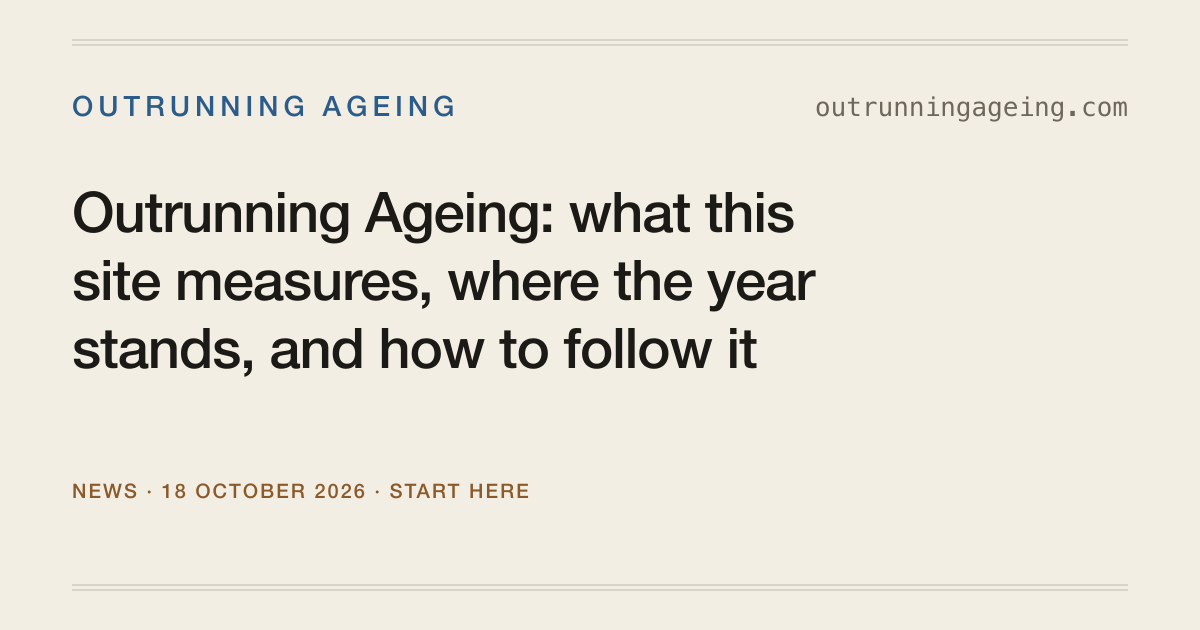
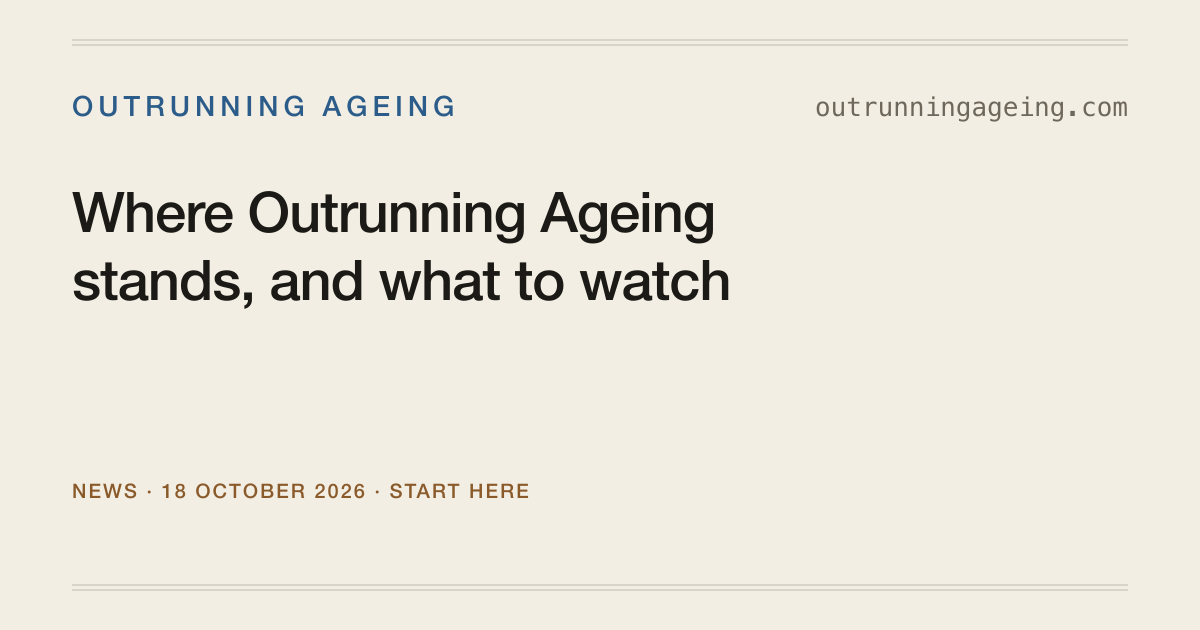
2026-10-18: the drafted opening post takes the stand-in's place as the news section's "Start here" (the openers session's text of 2026-10-18, with a link added in every paragraph that states a figure so the check passes, and the feed sentence brought up to date now that the feed exists); the check a

Changed region(s): [[0.0617, 0.4222, 0.6783, 0.6032], [0.0617, 0.3016, 0.6783, 0.3921]]

diff --git a/scripts/check_news.py b/scripts/check_news.py
@@ -12,7 +12,7 @@ A post is one Markdown file, YYYY-MM-DD-slug.md, with a frontmatter block. The c
 post that: has a file name not of that form, or a frontmatter date that differs from it; carries
 a kind outside the seven; names no record, or one that does not exist (the opener, kind
 "start-here", is the one post that need not name a record); cites no source with an https
-address; states a figure (any digit) in a paragraph that carries no link to a source or a record
+address; states a figure (any digit) in a paragraph that carries no link (a Markdown link or a written-out https address) to a source or a record
 (a table is covered by the record links the page draws under the post; the frontmatter is not
 prose); or names a record that shows no dated change within fourteen days of the post's date
 (a revision, the rung reached, or a reading item resolved or moved), so a post cannot announce
@@ -159,7 +159,7 @@ def check(posts_dir: Path, records: dict) -> tuple[list[str], int]:
                 if rid in by_id and not record_changed_near(by_id[rid], when, readings):
                     problems.append(f"{name}: {rid} shows no dated change within {WINDOW_DAYS} days of {when}; a post cannot announce what the record does not show")
         for i, para in enumerate(paragraphs(body), 1):
-            if re.search(r"\d", para) and "](" not in para:
+            if re.search(r"\d", para) and "](" not in para and "https://" not in para:
                 problems.append(f"{name}: paragraph {i} states a figure with no link to a source or a record: {para[:70]!r}")
     if openers > 1:
         problems.append(f"{posts_dir}: {openers} posts of kind start-here; there is one per site")

diff --git a/site/src/content/news/2026-10-18-start-here.md b/site/src/content/news/2026-10-18-start-here.md
@@ -1,39 +1,87 @@
 ---
-title: "Outrunning Ageing: what this site measures, where the year stands, and how to follow it"
+title: "Where Outrunning Ageing stands, and what to watch"
 date: 2026-10-18
 kind: start-here
-summary: The idea behind the project, how the year is computed from forty-four treatments, which numbers to watch, the most interesting news so far, and what would move the year. Read this once; the posts below are the changes as they happen.
-stand_in: true
+summary: What the site asks and how the year is worked out, where the numbers stand as of 18 October 2026, how to follow them week by week, the most interesting news so far, and what to watch for.
 sources:
+  - label: The headline file, the numbers as they stand
+    url: https://outrunningageing.com/data/headline.json
   - label: The method
     url: https://outrunningageing.com/method/
-  - label: The headline file
-    url: https://outrunningageing.com/data/headline.json
 ---
 
-## The idea
+Outrunning Ageing asks one question: when do we start outrunning ageing? Every year you live, medicine gets a little better, but for a person in middle age it does not yet get better fast enough, so the years you can expect to have left still fall by about a year every year. The site asks when, if ever, that stops being true, so that someone who keeps up with the best available care finds their remaining years holding steady or rising.
 
-Ageing is not one thing. The site breaks it into eight branches, each a kind of damage that repair would have to address, and under them forty-four specific treatments and measuring tools ([the tree](/branches/)). Each treatment carries a plain test of what would count, a public record of how far it has got on a five-rung ladder from idea to wide use, and a range of years for when it reaches the clinic, with the reasoning beside it. The tree is played out two hundred thousand times, and the middle of all those runs is the year at the top of the home page ([the method](/method/)).
+The question usually gets filed under science fiction or under marketing. I wanted it broken into pieces anyone can argue about, with a year at the top that is computed from them and moves in public when a new result moves it. How and why I built it is in [the essay that introduced the project](https://sentient-horizons.com/essays/outrunning-ageing/).
+
+This is the start of the site's news section. When a reading or a ruling moves a treatment up a rung, changes the year or settles a promise in the claims log, I will write it up here beside the record it explains. A quiet week gets no post.
 
 ## Where the numbers stand
 
-| what | on 18 October 2026 | what moves it |
-|---|---|---|
-| The middle year | 2058 | a treatment reaching its clinic rung on a required branch; an estimate revised on a record |
-| Nine runs in ten land between | 2050 and 2068 | the spread of the ranges on the slowest branches |
-| The chance before 2050 | 4.3 per cent | the same |
-| Treatments in clinical use | 6 of 44 | a named clinical setting publishing its practice, or a regulator's approval |
+As of 18 October 2026, the middle estimate of the year medicine starts adding more than a year of healthy life for every year that passes is 2058, from [two hundred thousand runs of the tree](/data/headline.json). Nine runs in ten land between 2050 and 2069. The chance it comes before 2050 is 4.3 percent, and in no run does it fail to arrive this century.
 
-The numbers above are the record's as of this post's date; the [home page](/) carries them as they stand today.
+The year is worked out from 45 treatments and measuring tools on [eight branches](/branches/), seven for kinds of damage that repair has to deal with and one for measuring ageing. A branch counts as handled in the year its second treatment reaches patients, and the year at the top cannot come until every branch is handled, plus some years for the treatments to reach ordinary people. The middle estimate for each branch:
+
+- broken proteins and waste: handled by 2023 ([the tree](/branches/));
+- inflammation and the body's messaging: 2026;
+- energy and fuel sensing: 2028;
+- replacing lost cells and parts: 2032;
+- measuring ageing: 2040;
+- worn-out cells: 2043;
+- damaged DNA: 2044;
+- the cell's settings: 2044.
+
+[Six of the 45](/branches/) are already in use with patients. The gap between the clinic and ordinary people is drawn from 3 to 15 years, most likely 8.
+
+The year has stood at 2058 at every run since the first, while the chance before 2050 has risen from 2.7 to 4.3 percent ([the headline file's history](/data/headline.json)).
 
 ## How to follow it
 
-Once a week a reading searches the news against every record and writes down what it found; the home page's strip says when it last ran and whether anything moved ([this week's reading](/reading/)). When something moves, a post appears here the same day, saying what happened, what it changed, why, and what it does not mean. The [feed](/news/feed.xml) carries every post; [the story so far](/story/) carries every change, including the ones too small for a post.
+Every Sunday morning, Pacific time, a fresh session searches the week's news against every treatment's test, every claim and every public self-experiment, and gives each a verdict. It may move a treatment up one rung, onto "shown in animals" or "first human" only, and only on a record of the kind that treatment names. Putting a treatment in the clinic, changing an estimate or settling a claim is left to me.
+
+Each week's reading is on [the Reading page](https://outrunningageing.com/reading/). [The Story](https://outrunningageing.com/story/) logs every paper read, and its section [What changed, day by day](https://outrunningageing.com/story/#what-changed) gives one line for each day the records changed. [The Branches](https://outrunningageing.com/branches/) lead to every treatment with its test, stage and range of years, and [the Claims](https://outrunningageing.com/claims/) page sets who promised what beside what has been shown. [The Method](https://outrunningageing.com/method/) explains how the year is worked out and who does what. If you think a range or a test is wrong, or a treatment is missing, [the Disagree page](https://outrunningageing.com/disagree/) has a form for each, and I rule on every one. [The feed](/news/feed.xml) carries every post in this section.
 
 ## The most interesting news so far
 
-Plasma exchange moving into clinical use on 27 April 2026, found by the reading of 17 October and ruled the same day ([the post](/news/2026-10-18-plasma-exchange-in-clinical-use/)); and the outside review of 17 October that re-argued every treatment's years and moved the chromosome-ends drug later because its one trial was stopped as futile ([the story](/story/#logged-2026-10-17)).
+The biggest move came on 17 October 2026, when [plasma exchange reached the clinic](/news/2026-10-18-plasma-exchange-in-clinical-use/). The treatment, replacing the liquid part of a person's blood to slow an age-related disease, had sat at first human since a trial in Alzheimer's disease reported in July 2020. The first weekly reading found only the supplier's word for it, and the outside review the same day found the clinic's own: on 27 April 2026, the Ace Alzheimer Center in Barcelona said 71 patients had completed its 15-month programme under routine clinical practice. I ruled that a named clinic publishing its own practice meets the test. The case against is on the record too: the results were a conference presentation, not a peer-reviewed paper, and the blood-filtering specialists' own society still classes its role in Alzheimer's disease as not established. With plasma exchange and an anti-inflammatory drug already approved to prevent heart attacks, the inflammation branch went from handled by 2042 to 2026.
+
+The year did not move, because [other rulings from the same review](/story/#logged-2026-10-17) pulled the other way. One was on a drug meant to lengthen the caps on the ends of chromosomes: its follow-up study found no significant lengthening, and its one mid-stage trial was stopped in 2025 because it could not succeed, so its range of years moved later, from between 2030 and 2070 to between 2038 and 2085. Taken together, that day's rulings raised the chance before 2050 from 3.4 to 4.1 percent. The review also offered four published figures for the gap between the clinic and ordinary people, and none checked out, so the gap stays a first guess.
+
+Earlier that day [a drug to make dogs live longer](/leaves/a-drug-is-approved-to-make-dogs-live-longer/) joined the tree, at idea only, since the only data behind it so far are the company's own. A conditional approval would put it in the clinic, most likely in 2028, and adding it moved the energy and fuel sensing branch from 2039 to 2028.
+
+On 18 October 2026, after a reading of seven papers from one laboratory, [a new measuring tool went on the tree](/story/#logged-2026-10-18): a count of the DNA in a cell's power plants, the mitochondria, taken from a blood sample, which a 2014 study of 16,401 people found predicts death and disease. It entered at first human, and the chance before 2050 rose from 4.1 to 4.3 percent.
 
 ## What to watch for
 
-A regulator approving any treatment on the tree for an age-related condition; a second treatment on the inflammation branch reaching its clinic rung; the first of the measuring tools being used to run a trial rather than to describe one ([the tree](/branches/)). Each would move the year, and each would get a post.
+The cell's settings branch is one of the two slowest, so it holds the year back more than most. [Tune Therapeutics](/leaves/a-cells-settings-are-rewritten-at-one-gene-in-a-person/) reported at a conference in May 2026 that one dose of a treatment that rewrites the chemical marks on a single gene kept a liver virus's markers down for up to seventeen months. Once that appears in a peer-reviewed paper or as results posted to the trial registry, the treatment should move to first human. The [registry](https://clinicaltrials.gov/study/NCT06671093) estimates the trial's main results in June 2028.
+
+Vertex [reports its third-quarter results on 2 November 2026](https://investors.vrtx.com/news-releases/news-release-details/vertex-announce-third-quarter-2026-financial-results-november), and [the record](/leaves/cells-grown-from-stem-cells-restore-a-lost-organ-function/) is watching for any approval filing for zimislecel, its stem-cell-grown islet cells for type 1 diabetes.
+
+A small pilot trial of [eye drops meant to dissolve the clouded protein of a cataract](/leaves/eye-drops-dissolve-the-clouded-protein-of-a-cataract/) is due to finish in February 2027, by the [registry's estimate](https://clinicaltrials.gov/study/NCT07395986); no human trial of such drops has been published yet. The company behind the dog drug, Loyal, now expects to finish its application in 2027.
+
+[The claims log](/claims/) has dates coming due as well, from 2029 on, among them the inventor Ray Kurzweil's claim of February 2026 that by 2032 "you'll gain back one year for each year lived." A claim never moves the year.
+
+---
+
+## Sources
+
+Every fact above was checked on 2026-10-18 against the page or record named here. Repository paths are on the `main` branch of [github.com/jfredson/outrunning-ageing](https://github.com/jfredson/outrunning-ageing) at commit `3875679`.
+
+- The question and the paragraph under it: https://outrunningageing.com/ (the page's only heading, "When do we start outrunning ageing?").
+- Science fiction or marketing, pieces anyone can argue about, a number computed from the pieces: `README.md` line 5; https://outrunningageing.com/method/ , "Who is asking".
+- 2058, 2050 to 2069, 4.27 percent before 2050, 0 percent after 2100, 200,000 runs, computed 2026-10-18: https://outrunningageing.com/data/headline.json ; https://outrunningageing.com/method/ , "The numbers as they stand".
+- 45 treatments and tools, 6 in the clinic, eight branches and their middle years: https://outrunningageing.com/data/headline.json (`branches`, counts); https://outrunningageing.com/ .
+- The handled rule and the lag of 3, 8 and 15 years: https://outrunningageing.com/data/headline.json (`method`); https://outrunningageing.com/ .
+- The history of the chance before 2050 (2.66 percent on 2026-10-16, 4.27 percent now) and the year at 2058 throughout: headline file `history`; `CHANGELOG.md` line 7.
+- The weekly reading, its verdicts and its limits: https://outrunningageing.com/reading/ ; `docs/weekly-reading.md` lines 22 to 62. Sunday mornings: `docs/weekly-reading-prompt.md` line 21 ("Sundays 06:00 Pacific", ruled 2026-10-17).
+- Pages: /reading/ , /story/ and /story/#what-changed , /branches/ , /claims/ , /method/ , /disagree/ (all opened 2026-10-18). No feed: /rss.xml and /feed.xml return 404.
+- Plasma exchange, first human 2020-07-27, the Grifols release, the Barcelona page of 2026-04-27, 71 patients, the ruling, the case against, inflammation 2042 to 2026: `data/leaves/replacing-a-persons-plasma-slows-an-age-related-disease.toml` lines 31 to 34, 47 to 82, 115 to 121, 144; https://www.acebarcelona.org/en/plasma-exchange-alzheimers-asfa-2026 ; https://doi.org/10.1002/alz.12137 ; `CHANGELOG.md` lines 27 and 28.
+- The chromosome-ends drug (2030 / 2036 / 2070 to 2038 / 2048 / 2085, no significant lengthening, phase 2 stopped in 2025 for futility) and 3.35 to 4.09 percent: `CHANGELOG.md` lines 27 and 29; `docs/reviews/2026-10-17-rulings.md`.
+- The four lag figures that failed: `CHANGELOG.md` lines 35 and 45.
+- The dog drug, idea only, the company's own data, estimate 2027 / 2028 / 2032, energy branch 2039 to 2028: `data/leaves/a-drug-is-approved-to-make-dogs-live-longer.toml`; `CHANGELOG.md` line 142.
+- The mitochondrial DNA count, seven papers from one laboratory, 2014-12-04, 16,401 people, 4.09 to 4.27 percent: `CHANGELOG.md` line 9; `docs/readings/picard-lab-2026-10-18.md`.
+- The cell's settings branch among the two slowest: https://outrunningageing.com/data/headline.json (2044 with damaged DNA). Tune's conference report of 2026-05-30, "out to 17 months", the test and "move to first human soon after": `data/leaves/a-cells-settings-are-rewritten-at-one-gene-in-a-person.toml`. Main results estimated 2028-06-28: https://clinicaltrials.gov/study/NCT06671093 (registry read 2026-10-18).
+- Vertex's results on 2026-11-02 and zimislecel: `data/scans/2026-10-18.toml` line 301; `data/leaves/cells-grown-from-stem-cells-restore-a-lost-organ-function.toml` lines 15 to 17; https://investors.vrtx.com/news-releases/news-release-details/vertex-announce-third-quarter-2026-financial-results-november (date confirmed 2026-10-18).
+- The cataract drops pilot, estimated to finish 2027-02, and no human trial published: `data/leaves/eye-drops-dissolve-the-clouded-protein-of-a-cataract.toml` lines 14 to 17; https://clinicaltrials.gov/study/NCT07395986 (registry read 2026-10-18).
+- Loyal's application now expected in 2027: `data/leaves/a-drug-is-approved-to-make-dogs-live-longer.toml` (estimate and notes).
+- Claims due 2029, 2030 and 2032, and the Kurzweil quote of 2026-02-11: `data/claims/*.toml` (`due` fields); `data/claims/kurzweil-2026-escape-velocity-by-2032.toml`; https://outrunningageing.com/claims/ . Claims never move the year: `README.md`; https://outrunningageing.com/claims/ .
